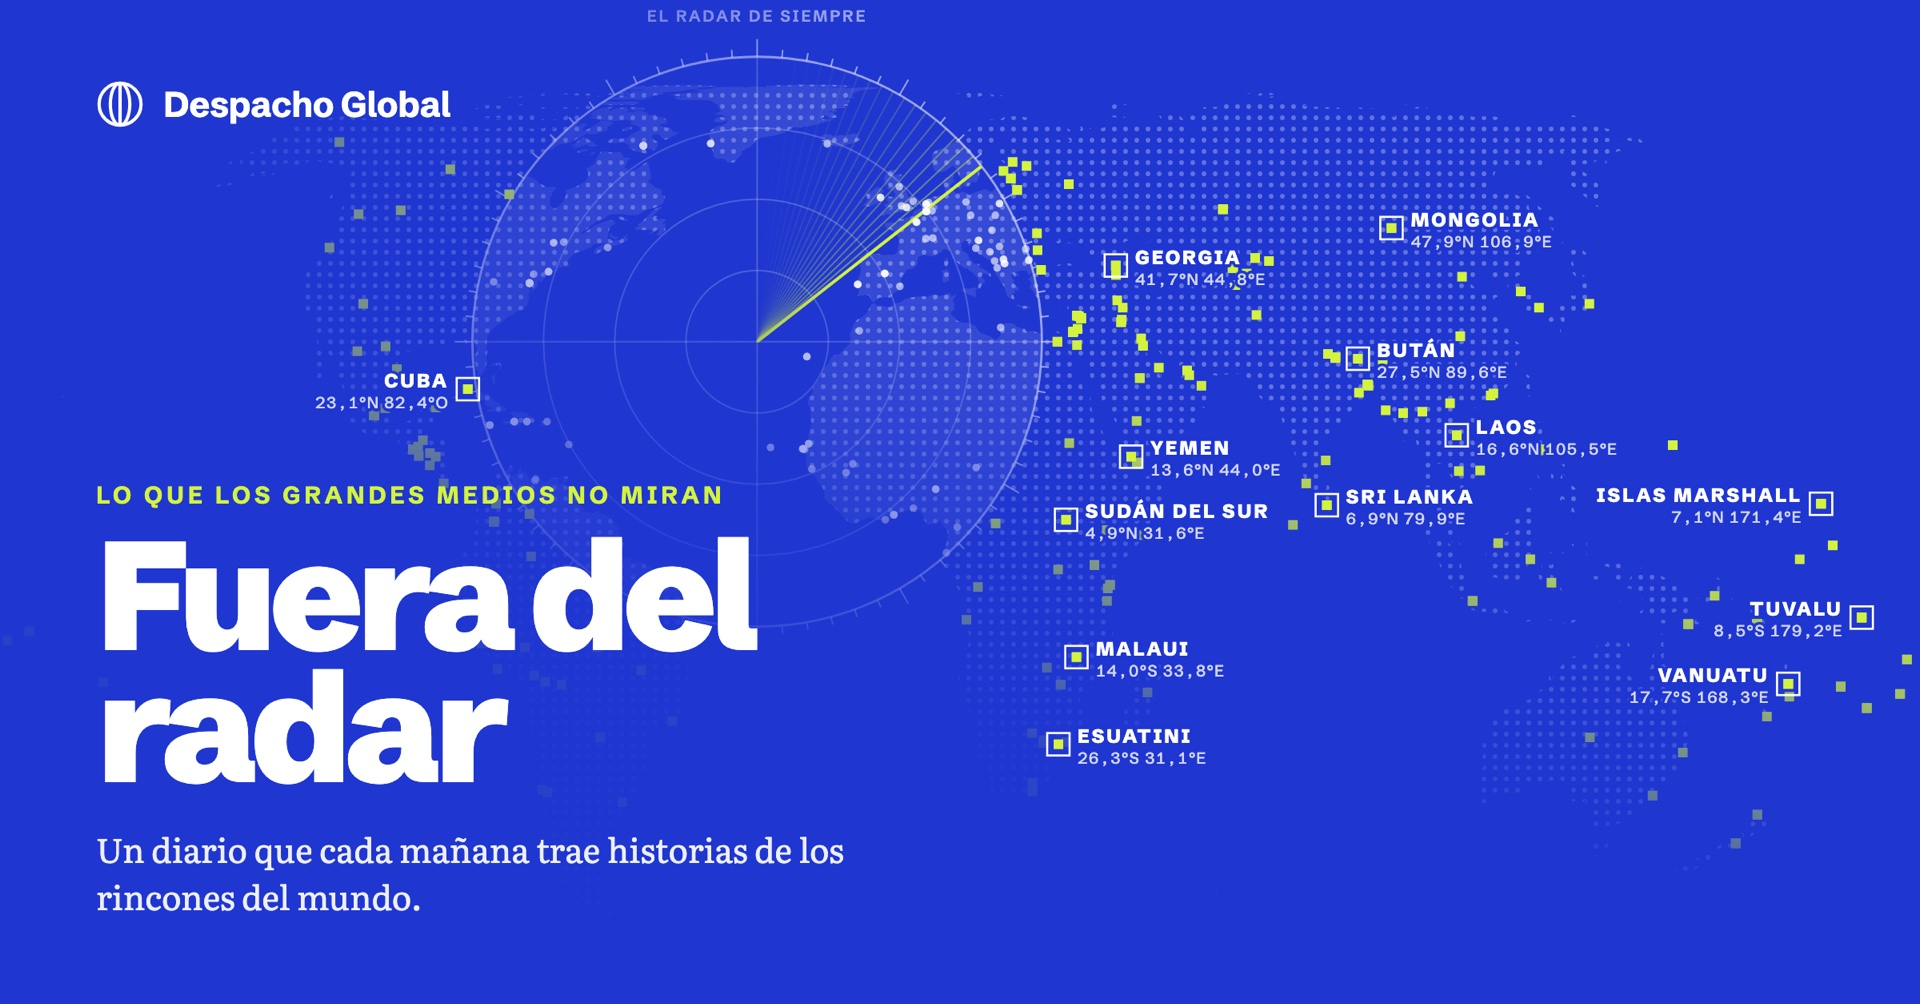
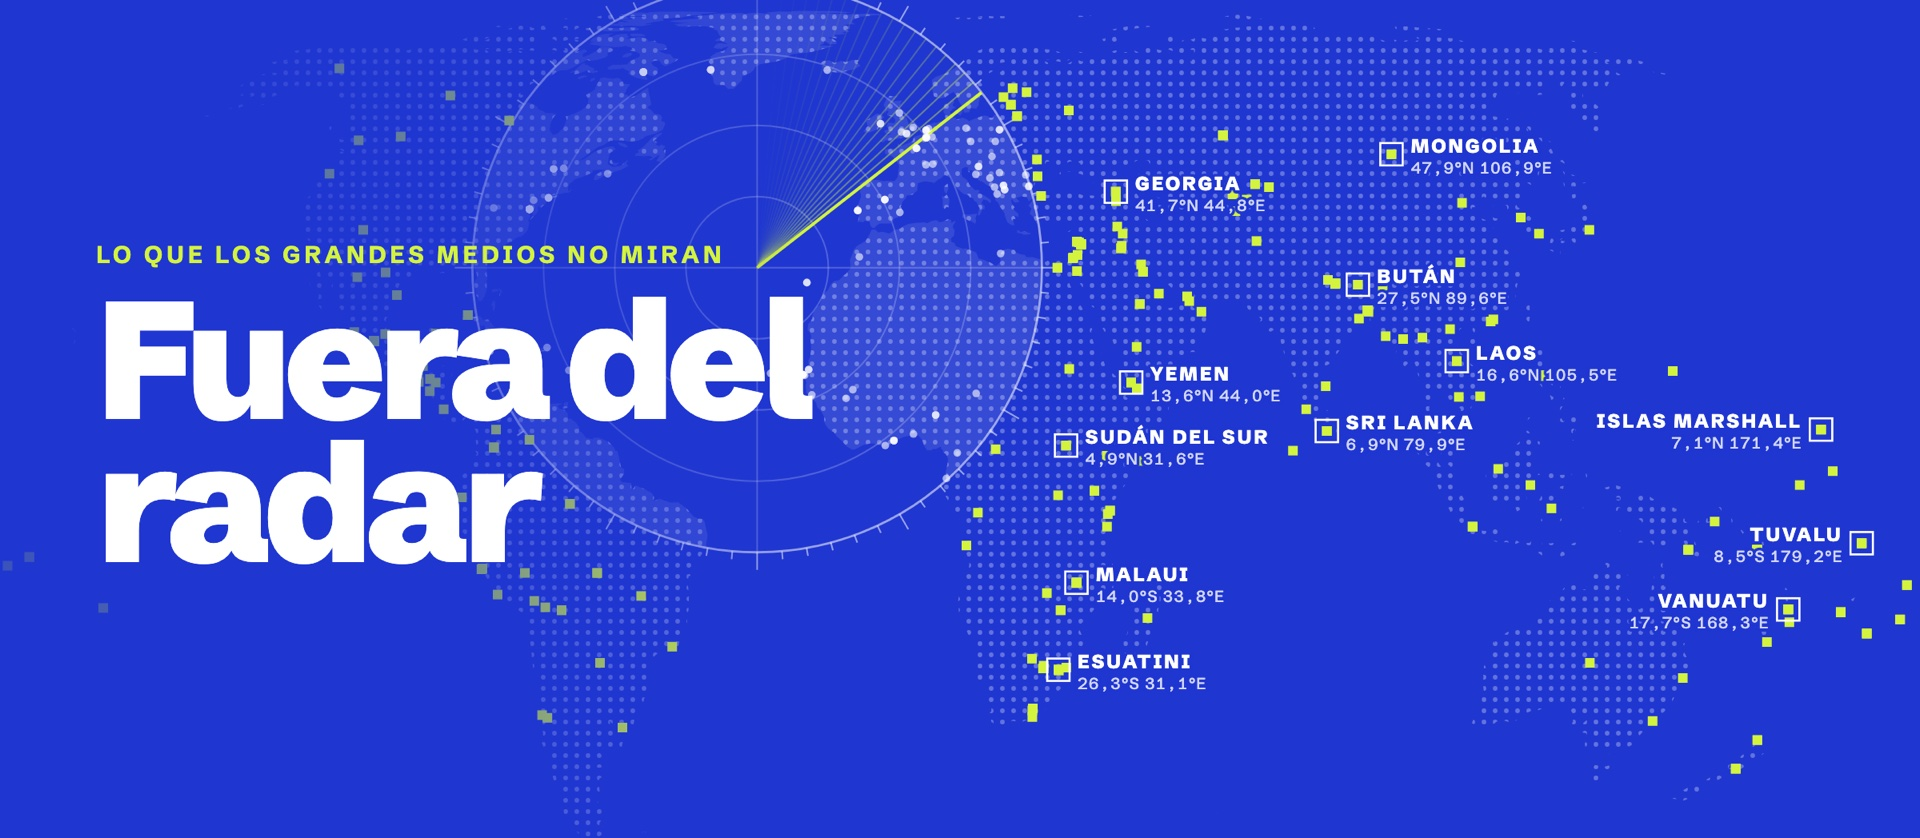
Portfolio: versión ancha de la miniatura del Despacho para su tarjeta

diff --git a/despacho-global/miniatura/miniatura.html b/despacho-global/miniatura/miniatura.html
@@ -85,6 +85,8 @@
   .radar .lbl{font-family:var(--sans);font-weight:800;font-size:12px;letter-spacing:.11em;fill:#fff;text-transform:uppercase;paint-order:stroke;stroke:#1F36D1;stroke-width:4px;stroke-linejoin:round}
   .radar .coord{font-family:var(--sans);font-weight:500;font-size:10px;letter-spacing:.05em;fill:rgba(255,255,255,.8);font-variant-numeric:tabular-nums;paint-order:stroke;stroke:#1F36D1;stroke-width:4px;stroke-linejoin:round}
   .radar .rlbl{font-family:var(--sans);font-weight:600;font-size:10px;letter-spacing:.14em;fill:rgba(255,255,255,.55);text-transform:uppercase}
+  .radar.tarjeta .txt{bottom:auto;top:150px}
+  .radar.tarjeta h1{font-size:104px}
 </style>
 </head>
 <body>
@@ -234,7 +236,7 @@ async function gran(card, tema){
   }
   const mer = proj([25, 0])[0];
   card.innerHTML = `
-    <svg viewBox="0 0 1200 627" width="1200" height="627">
+    <svg viewBox="0 0 1200 ${H}" width="1200" height="${H}">
       <defs>
         <pattern id="ld" width="7" height="7" patternUnits="userSpaceOnUse"><circle cx="3.5" cy="3.5" r="1.5" fill="var(--land)"/></pattern>
         <linearGradient id="scrim" x1="0" x2="1"><stop offset=".30" stop-color="var(--scrim)"/><stop offset=".56" stop-color="var(--scrim)" stop-opacity="0"/></linearGradient>
@@ -261,8 +263,11 @@ async function gran(card, tema){
 
 async function radar(card){
   const [{notas}, land] = await Promise.all([datos(), mundo()]);
-  card.className = 'card radar';
-  const proj = d3.geoEqualEarth().rotate([-12, 0]).fitExtent([[-10, 26], [1210, 668]], {type:'Sphere'});
+  const TARJ = new URLSearchParams(location.search).get('formato') === 'tarjeta';
+  const H = TARJ ? 524 : 627;
+  if (TARJ) { document.documentElement.style.height = document.body.style.height = card.style.height = H + 'px'; }
+  card.className = 'card radar' + (TARJ ? ' tarjeta' : '');
+  const proj = d3.geoEqualEarth().rotate([-12, 0]).fitExtent([[-10, TARJ ? -20 : 26], [1210, TARJ ? 622 : 668]], {type:'Sphere'});
   const path = d3.geoPath(proj);
   // El radar de los grandes medios: centrado en el Atlántico Norte (EE.UU., Europa, Medio Oriente).
   const [cx, cy] = proj([-28, 30]); const R = 178;
@@ -282,8 +287,8 @@ async function radar(card){
   const gc = (v, p, n) => `${Math.abs(v).toFixed(1).replace('.', ',')}°${v >= 0 ? p : n}`;
   const lejosDelRadar = r => Math.hypot(Math.max(r.x, Math.min(cx, r.x + r.w)) - cx, Math.max(r.y, Math.min(cy, r.y + r.h)) - cy) > R + 10;
   const puestas = [], usados = new Set();
-  const cabe = r => r.x + r.w < 1188 && r.y > 16 && r.y + r.h < 612 && lejosDelRadar(r) &&
-    !(r.x < 560 && r.y + r.h > 300) && !(r.x < 330 && r.y < 100) &&
+  const cabe = r => r.x + r.w < 1188 && r.y > (TARJ ? 70 : 16) && r.y + r.h < H - 15 && lejosDelRadar(r) &&
+    !(TARJ ? (r.x < 640 && r.y + r.h > 140 && r.y < 400) || r.y + r.h > H - 70 : (r.x < 560 && r.y + r.h > 300) || (r.x < 330 && r.y < 100)) &&
     !puestas.some(o => r.x < o.x + o.w + 10 && r.x + r.w + 10 > o.x && r.y < o.y + o.h + 6 && r.y + r.h + 6 > o.y);
   for (let ronda = 0; ronda < 9 && puestas.length < 13; ronda++) for (const g of GRUPOS) {
     if (puestas.length >= 13) break;
@@ -303,12 +308,13 @@ async function radar(card){
     return `<line x1="${cx + Math.cos(a) * R}" y1="${cy + Math.sin(a) * R}" x2="${cx + Math.cos(a) * (R + l)}" y2="${cy + Math.sin(a) * (R + l)}" stroke="rgba(255,255,255,.55)"/>`; }).join('');
   const ang = -38 * Math.PI / 180;
   card.innerHTML = `
-    <svg viewBox="0 0 1200 627" width="1200" height="627">
+    <svg viewBox="0 0 1200 ${H}" width="1200" height="${H}">
       <defs>
         <pattern id="ld" width="7" height="7" patternUnits="userSpaceOnUse"><circle cx="3.5" cy="3.5" r="1.45" fill="rgba(255,255,255,.30)"/></pattern>
         <clipPath id="disco"><circle cx="${cx}" cy="${cy}" r="${R}"/></clipPath>
         <clipPath id="sinpolo"><rect width="1200" height="${proj([0, -58])[1]}"/></clipPath>
         <radialGradient id="marca" cx="0" cy="0" r=".45"><stop offset=".25" stop-color="#1F36D1"/><stop offset="1" stop-color="#1F36D1" stop-opacity="0"/></radialGradient>
+        <linearGradient id="lado" x1="0" x2="1"><stop offset="0" stop-color="#1F36D1" stop-opacity=".85"/><stop offset=".22" stop-color="#1F36D1" stop-opacity=".6"/><stop offset=".42" stop-color="#1F36D1" stop-opacity="0"/></linearGradient>
         <linearGradient id="pie" x1="0" y1="1" x2=".55" y2="0"><stop offset="0" stop-color="#1F36D1"/><stop offset=".42" stop-color="#1F36D1" stop-opacity=".92"/><stop offset=".75" stop-color="#1F36D1" stop-opacity="0"/></linearGradient>
       </defs>
       <path d="${path(land)}" fill="url(#ld)" clip-path="url(#sinpolo)"/>
@@ -321,19 +327,19 @@ async function radar(card){
       <text class="rlbl" x="${cx}" y="${cy - R - 22}" text-anchor="middle">El radar de siempre</text>
       ${enRadar.map(n => `<circle cx="${n.x.toFixed(1)}" cy="${n.y.toFixed(1)}" r="2.4" fill="rgba(255,255,255,.6)"/>`).join('')}
       ${afuera.map(n => `<rect x="${(n.x - 3).toFixed(1)}" y="${(n.y - 3).toFixed(1)}" width="6" height="6" fill="#D3F33F"/>`).join('')}
-      <rect width="1200" height="627" fill="url(#pie)"/>
-      <rect width="1200" height="627" fill="url(#marca)" opacity=".85"/>
+      <rect width="1200" height="${H}" fill="url(#${TARJ ? 'lado' : 'pie'})"/>
+      ${TARJ ? '' : '<rect width="1200" height="627" fill="url(#marca)" opacity=".85"/>'}
       ${puestas.map(q => { const tx = q.izq ? q.x + q.w - 3 : q.x + 3, an = q.izq ? 'end' : 'start'; return `
         <rect x="${(q.n.x - 7).toFixed(1)}" y="${(q.n.y - 7).toFixed(1)}" width="14" height="14" fill="none" stroke="#fff" stroke-width="1.3"/>
         <rect x="${(q.n.x - 3).toFixed(1)}" y="${(q.n.y - 3).toFixed(1)}" width="6" height="6" fill="#D3F33F"/>
         <text class="lbl" x="${tx}" y="${q.n.y - 1}" text-anchor="${an}">${q.c}</text>
         <text class="coord" x="${tx}" y="${q.n.y + 12}" text-anchor="${an}">${gc(+q.n.lat, 'N', 'S')} ${gc(+q.n.lon, 'E', 'O')}</text>`; }).join('')}
     </svg>
-    <div class="brandline">${MARK}<span>Despacho Global</span></div>
+    ${TARJ ? '' : `<div class="brandline">${MARK}<span>Despacho Global</span></div>`}
     <div class="txt">
       <p class="kick">Lo que los grandes medios no miran</p>
       <h1>Fuera del radar</h1>
-      <p class="bajada">Un diario que cada mañana trae historias de los rincones del mundo.</p>
+      ${TARJ ? '' : '<p class="bajada">Un diario que cada mañana trae historias de los rincones del mundo.</p>'}
     </div>`;
 }
 

diff --git a/assets/js/content.js b/assets/js/content.js
@@ -234,7 +234,7 @@ window.CONTENT = {
       title: { es: "Despacho Global", en: "Despacho Global" },
       context: { es: "Medio digital · Idea y dirección", en: "Digital outlet · Concept and direction" },
       desc: { es: "Un cable de noticias con lo más importante del día y las historias que los grandes medios no cuentan. Ideé el proyecto y definí la línea editorial, las secciones y el criterio de cobertura; las ediciones se generan cada día con IA.", en: "A news wire with the day's main news and the stories big media leave out. I came up with the project and set its editorial line, sections and coverage criteria; each daily edition is generated with AI." },
-      image: "assets/img/trabajos/despacho-global.jpg?v=3", imagePos: "left center",
+      image: "assets/img/trabajos/despacho-global.jpg?v=4", imagePos: "left center",
       url: "despacho-global/index.html"
     },
     {

diff --git a/index.html b/index.html
@@ -211,7 +211,7 @@
     <a href="#top" data-i18n="footer.top">Volver arriba ↑</a>
   </footer>
 
-  <script src="assets/js/content.js?v=38"></script>
+  <script src="assets/js/content.js?v=39"></script>
   <script src="assets/js/main.js?v=35"></script>
 </body>
 </html>
